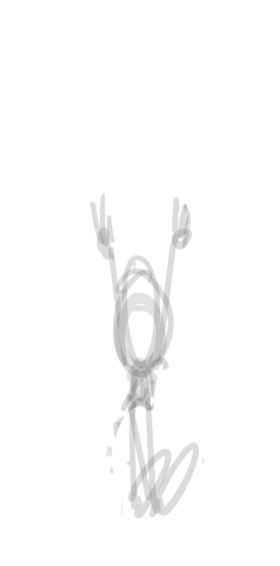
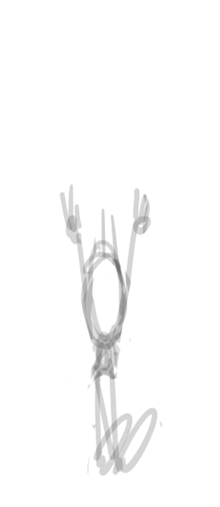
Updated jump & run, added root motion

Changed region(s): [[0.2727, 0.3254, 0.7091, 0.9467], [0.6, 0.355, 0.6818, 0.4734]]

diff --git a/src/animation.cpp b/src/animation.cpp
@@ -1,18 +1,18 @@
 #include "animation.h"
 
-//#include <cstdio>
-
 #include "km_debug.h"
 #include "km_string.h"
+#include "main.h"
 
-#define KEYWORD_MAX_LENGTH 8
+#define KEYWORD_MAX_LENGTH 16
 #define VALUE_MAX_LENGTH 256
 // TODO plz standardize
 #define PATH_MAX_LENGTH 128
 
-void AnimatedSprite::Update(float32 deltaTime, int numNextAnimations, const int nextAnimations[])
+Vec2 AnimatedSprite::Update(float32 deltaTime, int numNextAnimations, const int nextAnimations[])
 {
 	Animation activeAnim = animations[activeAnimation];
+	Vec2 rootMotion = Vec2::zero;
 
 	int nextAnim = -1;
 	int nextAnimStartFrame = 0;
@@ -39,21 +39,24 @@ void AnimatedSprite::Update(float32 deltaTime, int numNextAnimations, const int 
 		activeFrameTime = 0.0f;
 		activeFrameRepeat++;
 		if (activeFrameRepeat >= activeAnim.frameTiming[activeFrame]) {
-			activeFrame++;
+			int activeFramePrev = activeFrame;
+			activeFrame = (activeFrame + 1) % activeAnim.numFrames;
 			activeFrameRepeat = 0;
-		}
-		if (activeFrame >= activeAnim.numFrames) {
-			activeFrame = 0;
-			activeFrameRepeat = 0;
+
+			rootMotion = activeAnim.frameRootMotion[activeFrame]
+				- activeAnim.frameRootMotion[activeFramePrev];
 		}
 	}
+
+	return rootMotion;
 }
 
 void AnimatedSprite::Draw(SpriteDataGL* spriteDataGL,
 		Vec2 pos, Vec2 size, Vec2 anchor, bool32 flipHorizontal) const
 {
+	Vec2 anchorRootMotion = animations[activeAnimation].frameRootAnchor[activeFrame];
 	PushSpriteWorldSpace(spriteDataGL, pos, size,
-		anchor, flipHorizontal,
+		anchorRootMotion, flipHorizontal,
 		animations[activeAnimation].frameTextures[activeFrame].textureID);
 }
 
@@ -62,6 +65,28 @@ bool32 LoadAnimatedSprite(const ThreadContext* thread, const char* filePath,
 	DEBUGPlatformReadFileFunc* DEBUGPlatformReadFile,
 	DEBUGPlatformFreeFileMemoryFunc* DEBUGPlatformFreeFileMemory)
 {
+	const int TIMING_HARDCODED[16] = {
+		2, 1, 2, 1, 1, 1, 2, 2, 2, 2, 1, 2, 1, 2, 2, 2
+	};
+	const Vec2Int ROOTMOTION_HARDCODED[16] = {
+		{ 101, 480 },
+		{ 101, 480 },
+		{ 101, 480 },
+		{ 101, 403 },
+		{ 101, 270 },
+		{ 101, 217 },
+		{ 101, 209 },
+		{ 101, 206 },
+		{ 101, 209 },
+		{ 101, 217 },
+		{ 101, 246 },
+		{ 101, 340 },
+		{ 101, 480 },
+		{ 101, 480 },
+		{ 101, 480 },
+		{ 101, 480 },
+	};
+
 	DEBUGReadFileResult animFile = DEBUGPlatformReadFile(thread, filePath);
 	if (!animFile.data) {
 		DEBUG_PRINT("Failed to open animation file at: %s\n", filePath);
@@ -160,6 +185,12 @@ bool32 LoadAnimatedSprite(const ThreadContext* thread, const char* filePath,
 					return false;
 				}
 
+				// TODO hardcoded
+				animation.frameRootAnchor[frame] = {
+					(float32)ROOTMOTION_HARDCODED[0].x / outAnimatedSprite.textureSize.x,
+					(float32)(outAnimatedSprite.textureSize.y - ROOTMOTION_HARDCODED[0].y) / outAnimatedSprite.textureSize.y
+				};
+
 				frame++;
 			}
 
@@ -237,13 +268,35 @@ bool32 LoadAnimatedSprite(const ThreadContext* thread, const char* filePath,
 		}
 		else if (StringCompare(keyword, "timing", 6)) {
 			// TODO hardcoded
-			const int HARDCODED[16] = {
-				2, 1, 2, 1, 1, 1, 2, 2, 2, 2, 1, 2, 1, 2, 2, 2
-			};
 			Animation& anim = outAnimatedSprite.animations[animIndex];
 			DEBUG_ASSERT(anim.numFrames == 16);
 			for (int j = 0; j < anim.numFrames; j++) {
-				anim.frameTiming[j] = HARDCODED[j];
+				anim.frameTiming[j] = TIMING_HARDCODED[j];
+			}
+		}
+		else if (StringCompare(keyword, "rootmotion", 10)) {
+			// TODO hardcoded
+			Animation& anim = outAnimatedSprite.animations[animIndex];
+			Vec2Int textureSize = outAnimatedSprite.textureSize;
+			Vec2Int rootMotion0 = ROOTMOTION_HARDCODED[0];
+			rootMotion0.y = textureSize.y - rootMotion0.y;
+			Vec2 rootPosWorld0 = {
+				(float32)rootMotion0.x / REF_PIXELS_PER_UNIT,
+				(float32)rootMotion0.y / REF_PIXELS_PER_UNIT
+			};
+			DEBUG_ASSERT(anim.numFrames == 16);
+			for (int j = 0; j < anim.numFrames; j++) {
+				Vec2Int rootPos = ROOTMOTION_HARDCODED[j];
+				rootPos.y = textureSize.y - rootPos.y;
+				Vec2 rootPosWorld = {
+					(float32)rootPos.x / REF_PIXELS_PER_UNIT,
+					(float32)rootPos.y / REF_PIXELS_PER_UNIT
+				};
+				anim.frameRootMotion[j] = rootPosWorld - rootPosWorld0;
+				anim.frameRootAnchor[j] = {
+					(float32)rootPos.x / textureSize.x,
+					(float32)rootPos.y / textureSize.y
+				};
 			}
 		}
 		else if (StringCompare(keyword, "//", 2)) {

diff --git a/src/main.cpp b/src/main.cpp
@@ -16,8 +16,6 @@
 #include "post.h"
 #include "render.h"
 
-#define REF_PIXEL_SCREEN_HEIGHT 1080
-#define REF_PIXELS_PER_UNIT     120
 #define CAMERA_HEIGHT ((REF_PIXEL_SCREEN_HEIGHT) / (REF_PIXELS_PER_UNIT))
 #define CAMERA_OFFSET_VEC2 (Vec2 { 0.0f, -CAMERA_HEIGHT / 3.0f })
 #define CAMERA_OFFSET_VEC3 (Vec3 { 0.0f, -CAMERA_HEIGHT / 3.0f, 0.0f })
@@ -101,9 +99,10 @@ void DrawObjectAnimated(const ObjectAnimated& objectAnimated, SpriteDataGL* spri
 
 void PlayerMovementInput(GameState* gameState, float32 deltaTime, const GameInput* input)
 {
-	const float32 PLAYER_WALK_SPEED = 1.54f;
+	const float32 PLAYER_WALK_SPEED = 3.0f;
     // const float32 PLAYER_JUMP_SPEED = 4.2f;
-    const float32 PLAYER_JUMP_SPEED = 0.5f;
+    //const float32 PLAYER_JUMP_SPEED = 0.5f;
+    const float32 PLAYER_JUMP_SPEED = 0.01f;
 
 	if (IsKeyPressed(input, KM_KEY_A)) {
 		gameState->playerVel.x -= PLAYER_WALK_SPEED;
@@ -198,7 +197,25 @@ void UpdateTown(GameState* gameState, float32 deltaTime, const GameInput* input)
 	PlayerMovementInput(gameState, deltaTime, input);
 #endif
 
-	const float32 GRAVITY_ACCEL = 8.3f;
+    // TODO ideally animation IDs would be strings
+    const int KID_IDLE_ANIMS[1] = { 0 };
+    const int KID_WALK_ANIMS[1] = { 1 };
+    const int KID_JUMP_ANIMS[1] = { 2 };
+    const int* nextAnims = KID_IDLE_ANIMS;
+    int numNextAnims = 1;
+    if (gameState->playerState == PLAYER_STATE_JUMPING) {
+        nextAnims = KID_JUMP_ANIMS;
+        numNextAnims = 1;
+    }
+    else if (gameState->playerState == PLAYER_STATE_GROUNDED && gameState->playerVel.x != 0) {
+        nextAnims = KID_WALK_ANIMS;
+        numNextAnims = 1;
+    }
+    Vec2 rootMotion = gameState->spriteKid.Update(deltaTime, numNextAnims, nextAnims);
+    gameState->spriteMe.Update(deltaTime, numNextAnims, nextAnims);
+
+    // const float32 GRAVITY_ACCEL = 8.3f;
+    const float32 GRAVITY_ACCEL = 0.1f;
 
 	if (gameState->playerState == PLAYER_STATE_JUMPING
 	|| gameState->playerState == PLAYER_STATE_FALLING) {
@@ -208,7 +225,7 @@ void UpdateTown(GameState* gameState, float32 deltaTime, const GameInput* input)
 		gameState->playerVel.y = 0.0f;
 	}
 
-	Vec2 deltaPos = gameState->playerVel * deltaTime;
+	Vec2 deltaPos = gameState->playerVel * deltaTime + rootMotion;
 
 	LineColliderIntersect intersects[LINE_COLLIDERS_MAX];
 	int numIntersects;
@@ -257,23 +274,6 @@ void UpdateTown(GameState* gameState, float32 deltaTime, const GameInput* input)
 		}
 	}
 
-	// TODO ideally animation IDs would be strings
-	const int KID_IDLE_ANIMS[1] = { 0 };
-	const int KID_WALK_ANIMS[1] = { 1 };
-	const int KID_JUMP_ANIMS[1] = { 2 };
-	const int* nextAnims = KID_IDLE_ANIMS;
-	int numNextAnims = 1;
-	if (gameState->playerState == PLAYER_STATE_JUMPING) {
-		nextAnims = KID_JUMP_ANIMS;
-		numNextAnims = 1;
-	}
-	else if (gameState->playerState == PLAYER_STATE_GROUNDED && gameState->playerVel.x != 0) {
-		nextAnims = KID_WALK_ANIMS;
-		numNextAnims = 1;
-	}
-	gameState->spriteKid.Update(deltaTime, numNextAnims, nextAnims);
-	gameState->spriteMe.Update(deltaTime, numNextAnims, nextAnims);
-
 #if GAME_INTERNAL
 	if (!gameState->editor) {
 		gameState->cameraPos = gameState->playerPos;
@@ -281,6 +281,7 @@ void UpdateTown(GameState* gameState, float32 deltaTime, const GameInput* input)
 #else
 	gameState->cameraPos = gameState->playerPos;
 #endif
+    gameState->cameraPos.y = 0.0f;
 }
 
 void DrawTown(GameState* gameState, SpriteDataGL* spriteDataGL, Mat4 worldMatrix)
@@ -432,7 +433,7 @@ extern "C" GAME_UPDATE_AND_RENDER_FUNC(GameUpdateAndRender)
 		gameState->activeScene = SCENE_TOWN;
 
 		// town data init
-		gameState->playerPos = Vec2 { 0.0f, 10.0f };
+		gameState->playerPos = Vec2 { 0.0f, FLOOR_LEVEL + 0.5f };
 		gameState->playerVel = Vec2 { 0.0f, 0.0f };
 		gameState->floorCollider = nullptr;
 		gameState->playerState = PLAYER_STATE_FALLING;

diff --git a/misc-scripts/anim_util.py b/misc-scripts/anim_util.py
@@ -4,53 +4,42 @@ import os
 import numpy
 import png
 
-JUMP_SEQUENCE_PATH = "./data/animations/kid/jump/"
+JUMP_SEQUENCE_PATH = "./data/animations/kid/jump-rootmotion/"
+
+IMG_CHANNELS = 4
+IMG_BITDEPTH = 8
 
 def ExtractRootMotion(sequencePath):
 	width = 0
 	height = 0
 	planes = 0
 	numFrames = len(os.listdir(sequencePath))
-	offsets = []
+	positions = []
 
-	imagePrev = None
 	for i in range(numFrames):
 		frameFilePath = os.path.join(sequencePath, "{}.png".format(i))
 		print(frameFilePath)
 		pngReader = png.Reader(filename=frameFilePath)
 		pngData = pngReader.asDirect()
-		assert pngData[3]["bitdepth"] == 8
+		assert pngData[3]["bitdepth"] == IMG_BITDEPTH
+		assert pngData[3]["planes"] == IMG_CHANNELS
 		if i == 0:
 			width = pngData[0]
 			height = pngData[1]
-			planes = pngData[3]["planes"]
 		else:
 			assert width == pngData[0]
 			assert height == pngData[1]
-			assert planes == pngData[3]["planes"]
 
-		pixels = list(map(numpy.uint8, pngData[2]))
-		image = numpy.vstack(pixels)
-		if i > 0:
-			minDiff = 1e6
-			minOffset = 0
-			OFFSET_RANGE = int(height / 3)
-			for yOffset in range(-OFFSET_RANGE, OFFSET_RANGE):
-				rolled = numpy.roll(imagePrev, shift=yOffset, axis=1)
-				#print(rolled.shape)
-				#print(imagePrev[0])
-				#print(rolled[0])
-				#break
-				diff = numpy.average(numpy.square(image - rolled))
-				if diff < minDiff:
-					minDiff = diff
-					minOffset = yOffset
-			#print("min diff {} at offset {}".format(minDiff, minOffset))
-			offsets.append(minOffset)
-
-		imagePrev = image
+		pixels = list(pngData[2])
+		for y in range(height):
+			row = pixels[y]
+			for x in range(width):
+				ind = x * IMG_CHANNELS
+				rgba = row[ind:ind+4]
+				if rgba == bytearray(b"\xff\x00\x00\xff"):
+					positions.append((x, y))
 
 	print("Frame {}x{}, {} planes".format(width, height, planes))
-	print(offsets)
+	print(positions)
 
 ExtractRootMotion(JUMP_SEQUENCE_PATH)

diff --git a/src/animation.h b/src/animation.h
@@ -15,6 +15,8 @@ struct Animation
 	int numFrames;
 	TextureGL frameTextures[ANIMATION_MAX_FRAMES];
     int frameTiming[ANIMATION_MAX_FRAMES];
+    Vec2 frameRootMotion[ANIMATION_MAX_FRAMES];
+    Vec2 frameRootAnchor[ANIMATION_MAX_FRAMES];
 	int frameExitTo[ANIMATION_MAX_FRAMES][SPRITE_MAX_ANIMATIONS];
 };
 
@@ -30,7 +32,7 @@ struct AnimatedSprite
 
 	Vec2Int textureSize;
 
-	void Update(float32 deltaTime, int numNextAnimations, const int nextAnimations[]);
+	Vec2 Update(float32 deltaTime, int numNextAnimations, const int nextAnimations[]);
 
     void Draw(SpriteDataGL* spriteDataGL,
         Vec2 pos, Vec2 size, Vec2 anchor, bool32 flipHorizontal) const;

diff --git a/src/main.h b/src/main.h
@@ -10,7 +10,9 @@
 #include "opengl_base.h"
 #include "text.h"
 
-#define TARGET_ASPECT_RATIO (4.0f / 3.0f)
+#define TARGET_ASPECT_RATIO     (4.0f / 3.0f)
+#define REF_PIXEL_SCREEN_HEIGHT 1080
+#define REF_PIXELS_PER_UNIT     120
 
 #define NUM_FRAMEBUFFERS_COLOR_DEPTH  1
 #define NUM_FRAMEBUFFERS_COLOR        2
